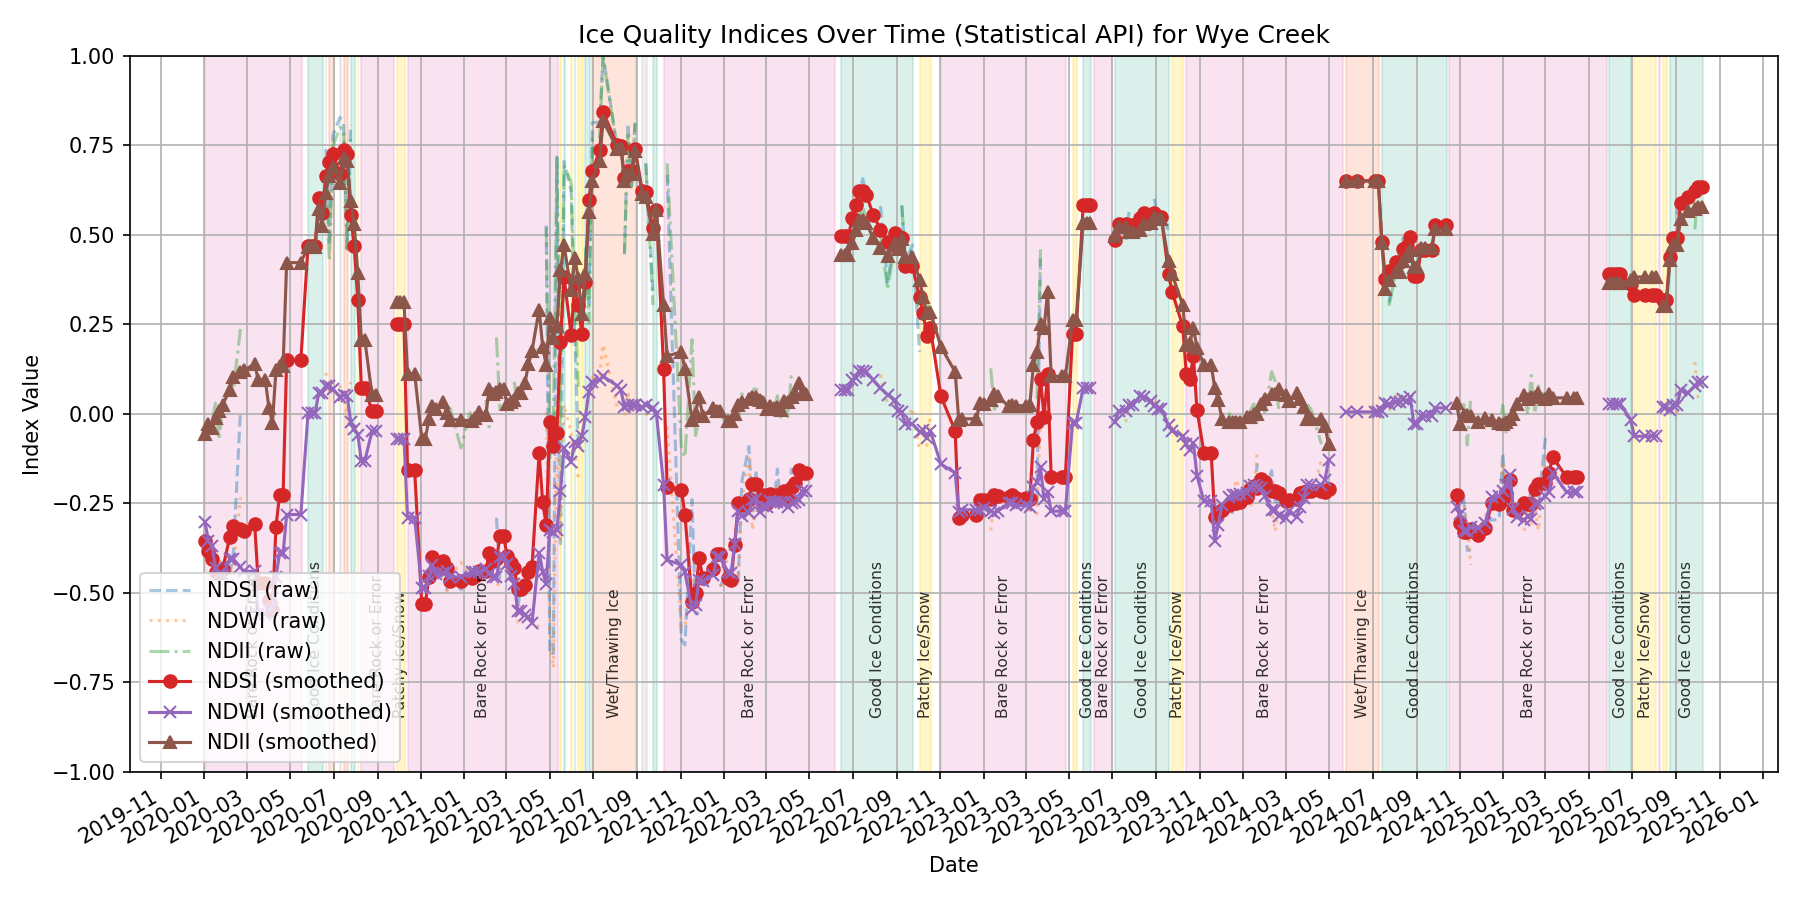
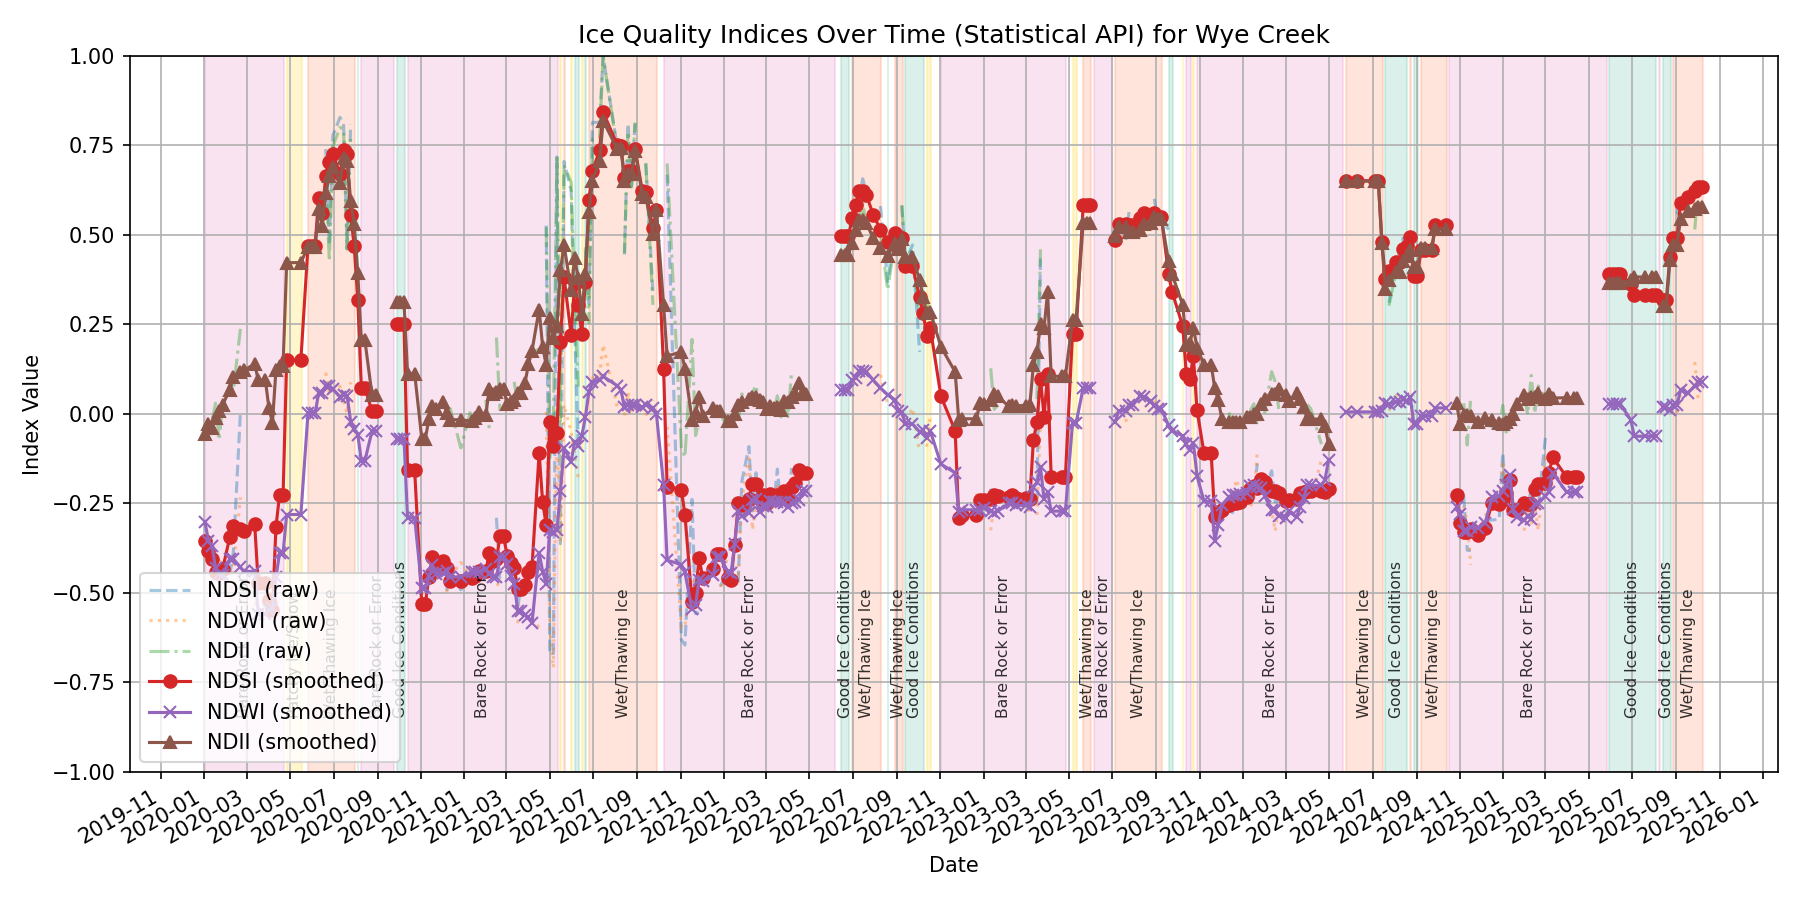
New Ice threholds, need to add in weathewr data

diff --git a/scripts/sentinel_visual.py b/scripts/sentinel_visual.py
@@ -35,23 +35,39 @@ df = con.execute("""
         ndsi_smooth,
         ndwi_smooth,
         ndii_smooth
-    FROM camonairflow.spectral.ice_indices 
+    FROM camonairflow.spectral.ice_indices
     ORDER BY date ASC
 """).df()
 
+# -----------------------------
 # NZ-optimized classifier
-def classify_ice_point(ndsi, ndwi, ndii):
-    if ndsi > 0.35:
-        if ndii < 0.60 and ndwi < 0.25:
-            return "Good Ice Conditions"
-        elif ndii >= 0.65 or ndwi >= 0.25:
-            return "Wet/Thawing Ice"
-        elif ndii < 0.30:
+# -----------------------------
+# CHANGED: thresholds tuned for NZ + fixed branch ordering (no unreachable 'Dry/Brittle'),
+# CHANGED: removed the 0.50–0.60 NDII gap and tightened wetness logic,
+# CHANGED: added small Aug–Oct (NZ spring) relaxation of NDSI by 0.05.
+def classify_ice_point(ndsi, ndwi, ndii, month):  # CHANGED
+    # seasonal tweak for NZ spring (Aug–Oct)
+    ndsi_thresh_main = 0.30 - (0.05 if month in (8, 9, 10) else 0.0)  # CHANGED
+
+    if ndsi > ndsi_thresh_main:
+        # First identify very dry/brittle blue ice before "good" (ordering matters)  # CHANGED
+        if ndii < 0.30 and ndwi < 0.05:
             return "Dry/Brittle Ice"
-        else:
-            return "Uncertain Ice"
-    elif 0.20 < ndsi <= 0.35:
-        if ndii <= 0.70 and ndwi < 0.30:
+
+        # Good ice: strong snow/ice signal, very little liquid water               # CHANGED
+        if ndii < 0.45 and ndwi < 0.10:
+            return "Good Ice Conditions"
+
+        # Wet/thawing if either water index increases                              # CHANGED
+        if ndii >= 0.45 or ndwi >= 0.10:
+            return "Wet/Thawing Ice"
+
+        # Otherwise uncertain within ice-present regime
+        return "Uncertain Ice"
+
+    elif 0.15 < ndsi <= ndsi_thresh_main:  # CHANGED (was 0.20)
+        # Patchy mixed surfaces: allow modest water without calling it 'wet'       # CHANGED
+        if ndii < 0.60 and ndwi < 0.25:
             return "Patchy Ice/Snow"
         else:
             return "Patchy & Wet"
@@ -62,8 +78,12 @@ def classify_ice_point(ndsi, ndwi, ndii):
 df = df[df["location"] == "Wye Creek"]
 df["date"] = pd.to_datetime(df["date"])
 df = df.reset_index(drop=True)
+
+# CHANGED: pass 'month' into classifier to enable seasonal tweak
 df["label"] = df.apply(
-    lambda row: classify_ice_point(row["ndsi_smooth"], row["ndwi_smooth"], row["ndii_smooth"]),
+    lambda row: classify_ice_point(
+        row["ndsi_smooth"], row["ndwi_smooth"], row["ndii_smooth"], row["date"].month  # CHANGED
+    ),
     axis=1
 )
 
